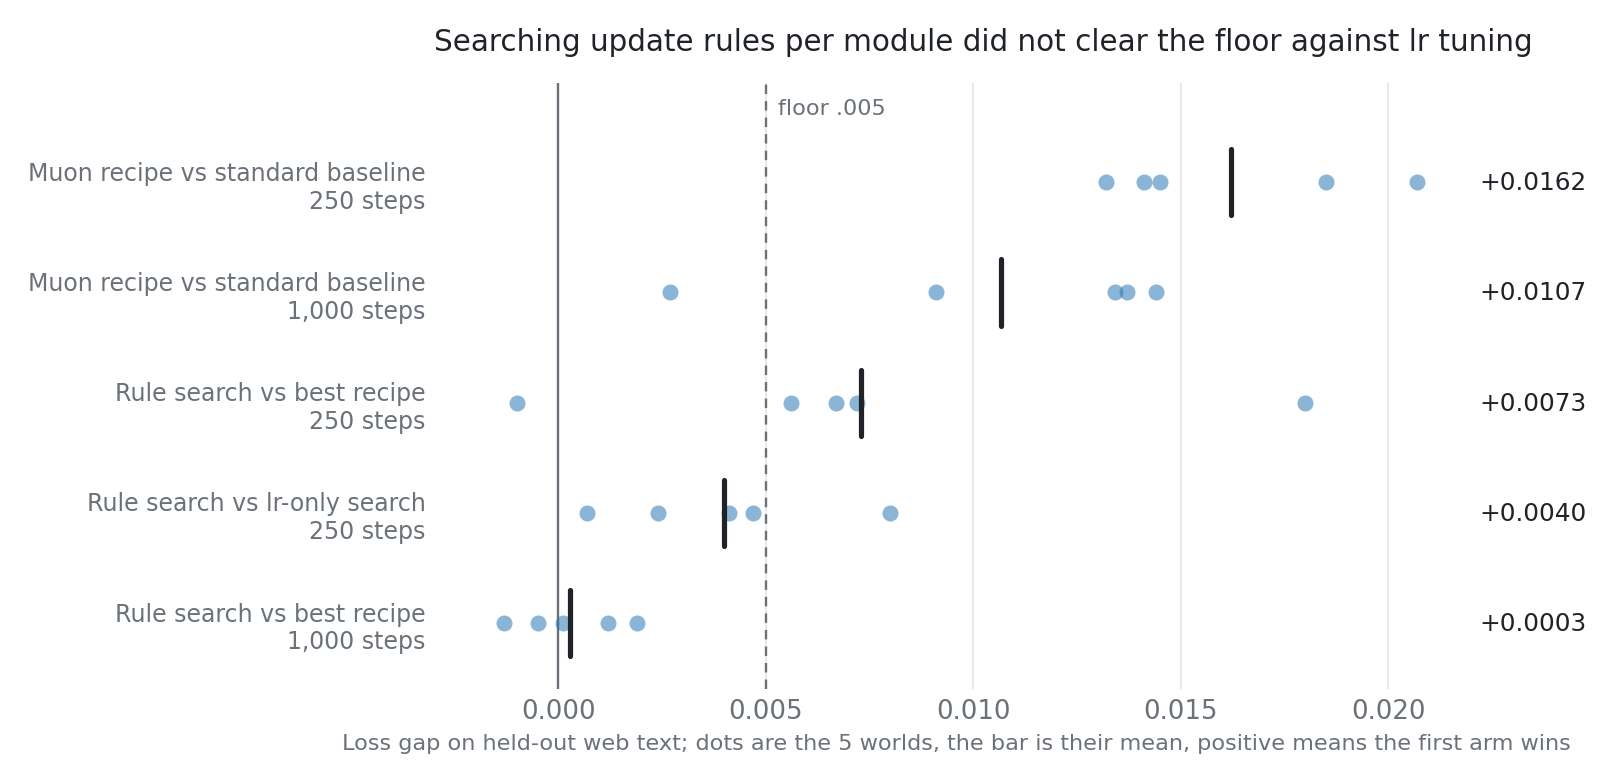
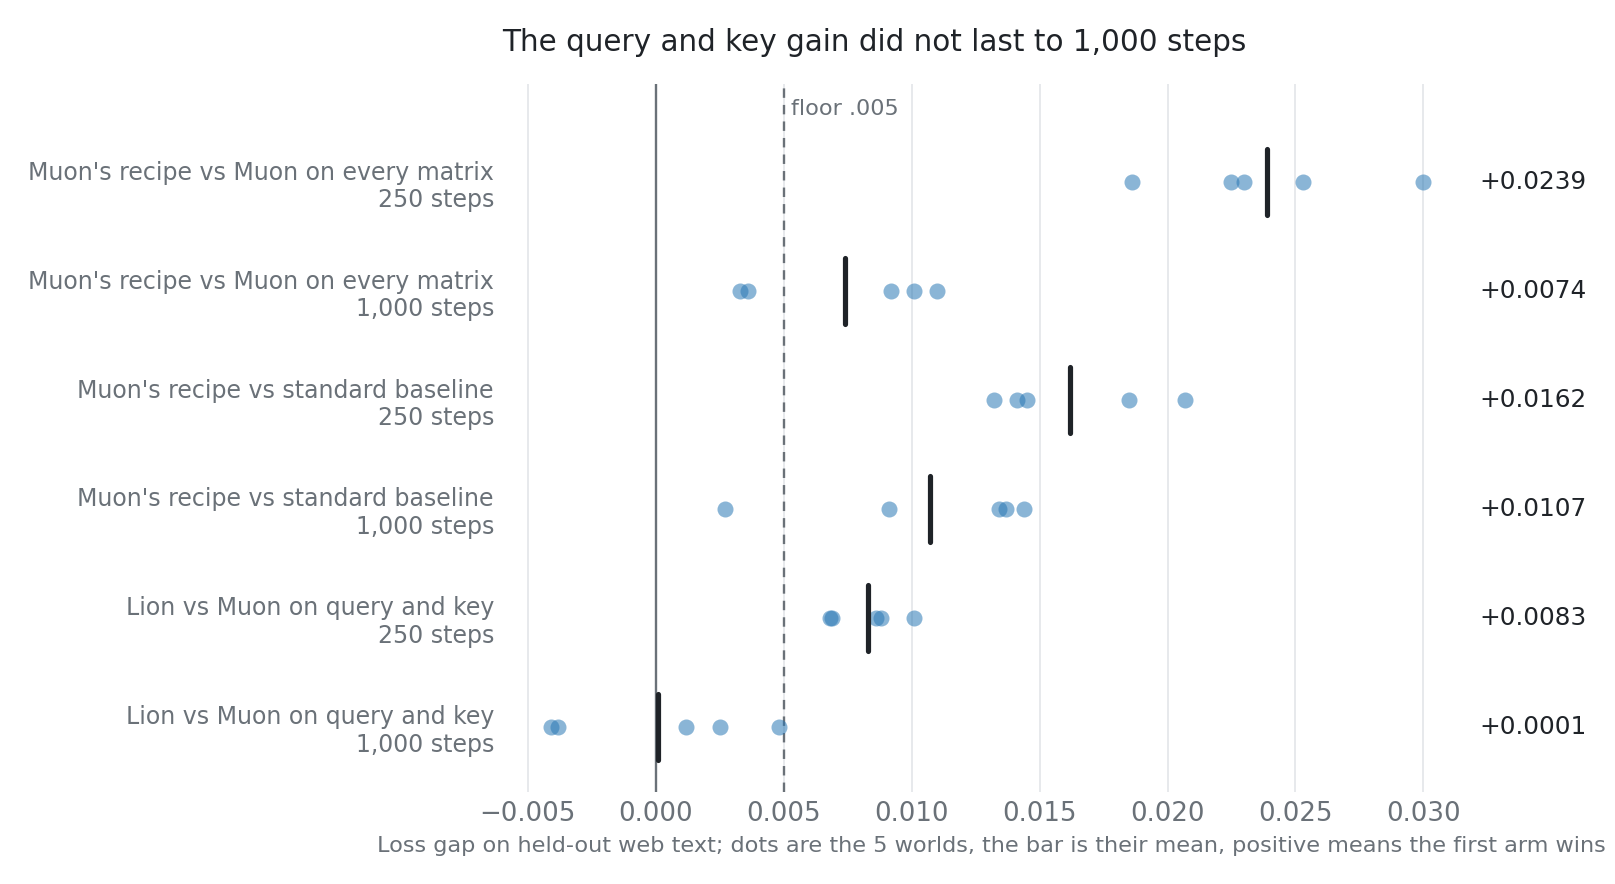
Report rounds 4 to 8: Adam on embedding and head plus Muon on hidden matrices is enough; the q,k gain fades by 1,000 steps

diff --git a/chart.py b/chart.py
@@ -1,25 +1,26 @@
-"""Draws gaps.png from the per-world numbers in RESULTS.md."""
+"""Draws gaps.png from the per-world numbers and means in RESULTS.md."""
 import matplotlib; matplotlib.use("Agg")
 import matplotlib.pyplot as plt
 
-ROWS = [("Muon recipe vs standard baseline\n250 steps", [.0141, .0132, .0145, .0185, .0207]),
-        ("Muon recipe vs standard baseline\n1,000 steps", [.0144, .0134, .0137, .0091, .0027]),
-        ("Rule search vs best recipe\n250 steps", [.0180, .0072, .0067, .0056, -.0010]),
-        ("Rule search vs lr-only search\n250 steps", [.0080, .0047, .0024, .0041, .0007]),
-        ("Rule search vs best recipe\n1,000 steps", [-.0005, .0012, .0001, .0019, -.0013])]
+ROWS = [("Muon's recipe vs Muon on every matrix\n250 steps", [.0186, .0230, .0253, .0225, .0300], .0239),
+        ("Muon's recipe vs Muon on every matrix\n1,000 steps", [.0092, .0110, .0036, .0033, .0101], .0074),
+        ("Muon's recipe vs standard baseline\n250 steps", [.0141, .0132, .0145, .0185, .0207], .0162),
+        ("Muon's recipe vs standard baseline\n1,000 steps", [.0144, .0134, .0137, .0091, .0027], .0107),
+        ("Lion vs Muon on query and key\n250 steps", [.0101, .0088, .0068, .0069, .0086], .0083),
+        ("Lion vs Muon on query and key\n1,000 steps", [-.0038, -.0041, .0012, .0025, .0048], .0001)]
 INK, MUTED, DOT = "#1f2328", "#6a7178", "#2a78b5"
 plt.rcParams.update({"font.size": 11, "font.family": "DejaVu Sans"})
-fig, ax = plt.subplots(figsize=(9.5, 4.6), dpi=170)
-for i, (name, v) in enumerate(ROWS):
-    y = len(ROWS) - 1 - i; m = sum(v) / len(v)
+fig, ax = plt.subplots(figsize=(9.5, 5.2), dpi=170)
+for i, (name, v, m) in enumerate(ROWS):
+    y = len(ROWS) - 1 - i
     ax.scatter(v, [y] * len(v), s=46, color=DOT, alpha=.55, linewidths=0, zorder=3)
     ax.plot([m, m], [y - .3, y + .3], color=INK, lw=2.2, solid_capstyle="round", zorder=4)
-    ax.text(.0222, y, f"{m:+.4f}", va="center", ha="left", color=INK, fontsize=10.5)
+    ax.text(.0322, y, f"{m:+.4f}", va="center", ha="left", color=INK, fontsize=10.5)
 ax.axvline(0, color=MUTED, lw=1); ax.axvline(.005, color=MUTED, lw=1, ls=(0, (4, 3)))
 ax.text(.0053, len(ROWS) - .42, "floor .005", ha="left", va="bottom", color=MUTED, fontsize=9.5)
-ax.set_yticks(range(len(ROWS))); ax.set_yticklabels([r[0] for r in ROWS][::-1], color=INK, fontsize=10); ax.set_xlim(-.003, .0222); ax.set_ylim(-.6, len(ROWS) - .1)
+ax.set_yticks(range(len(ROWS))); ax.set_yticklabels([r[0] for r in ROWS][::-1], color=INK, fontsize=10); ax.set_xlim(-.006, .0322); ax.set_ylim(-.6, len(ROWS) - .1)
 ax.set_xlabel("Loss gap on held-out web text; dots are the 5 worlds, the bar is their mean, positive means the first arm wins", color=MUTED, fontsize=9.5)
 ax.tick_params(length=0, colors=MUTED); ax.grid(axis="x", color="#e6e8eb", lw=.8); ax.set_axisbelow(True)
 for s in ax.spines.values(): s.set_visible(False)
-ax.set_title("Searching update rules per module did not clear the floor against lr tuning", loc="left", color=INK, fontsize=12.5, pad=14)
+ax.set_title("The query and key gain did not last to 1,000 steps", loc="left", color=INK, fontsize=12.5, pad=14)
 fig.tight_layout(); fig.savefig("gaps.png"); print("gaps.png")

diff --git a/README.md b/README.md
@@ -3,13 +3,14 @@
 > [!IMPORTANT]
 > We are using this environment to write a paper for ICML 2027. It was built in [AI Research School](https://www.skool.com/become-ai-researcher-2669), and you can use the code, results and ideas in your own research. The code is MIT licensed, and neither permission nor co-authorship is needed.
 >
-> **On a small LLM, searching for a different update rule per module added less than our .005 noise floor once every optimizer had its own tuned learning rate per module. Muon's recipe beat the standard baseline at both lengths we tested.**
+> **On a small LLM, two rules were enough: Adam on the embedding, head and norm scales, and Muon on hidden matrices. One rule on every matrix lost at both lengths we tested. A third rule on attention's query and key matrices helped at 250 steps, and that gain was gone at 1,000 steps.**
 
 | Paired gap in loss on held-out web text, over 5 worlds; positive means the first arm wins | 250 steps | 1,000 steps |
 |---|---|---|
+| **Muon's recipe vs Muon on every matrix** | **+.0239** (error .0020) | **+.0074** (error .0017) |
 | **Muon's recipe vs the standard baseline** | **+.0162** (error .0015) | **+.0107** (error .0022) |
+| Lion vs Muon on query and key | +.0083 (error .0012) | +.0001 (error .0018) |
 | Rule search vs the best published recipe | +.0073 (error .0031) | +.0003 (error .0008) |
-| Rule search vs a search over learning rates only | +.0040 (error .0012) | not run |
 
 ![Gap per world for each comparison](gaps.png)
 
@@ -31,7 +32,7 @@ So recent papers give each kind of weight, each **module**, its own rule. **Muon
 
 Each module can also have its own **learning rate (lr)**, the size of the move. A new rule can look better only because it got a better lr.
 
-Our question: once every optimizer has one tuned lr per module, does searching for the best rule per module still help?
+Our question: once every optimizer has one tuned lr per module, does each module need its own rule, or is one rule enough?
 
 ---
 
@@ -39,15 +40,53 @@ Our question: once every optimizer has one tuned lr per module, does searching f
 
 **Loss** is cross-entropy on web text the model never trained on, and lower is better. A **world** is a separate stretch of text with its own held-out rows. We count a gap as real only if its mean over worlds exceeds .005 and 2 errors. Every comparison uses one training run per setting per world.
 
-### Try Muon's recipe before searching for rules
+### Use Adam on the embedding and head, and Muon on hidden matrices
 
 Muon's recipe uses Muon on hidden matrices and Adam on the embedding, head and norm scales. The standard baseline uses Adam everywhere. Muon's recipe won in all 5 worlds at both lengths, by .0162 at 250 steps and .0107 at 1,000 steps.
 
-> **Muon's recipe had the lowest loss of the published recipes at 250 steps, and its lead fell with length, to +.0027 in its weakest world at 1,000 steps.**
+We then swapped one module's rule at a time at 250 steps and measured the change in tune loss, with the lr of the new rule tuned on 3 to 5 values. Each module has a clear preference, except query and key.
+
+| Module | Lowest loss | Next rule adds | Muon adds |
+|---|---|---|---|
+| Embedding | Adam | RowNorm +.018 | +.043 |
+| Head | Adam | Muon +.0097 | +.0097 |
+| Query and key | Lion | Adam +.0005 | +.0036 |
+| Value and output | Muon | Hybrid +.0036 | best |
+| MLP gate and up | Muon | Lion +.0029 | best |
+| MLP down | Muon | Hybrid +.0027 | best |
+| Norm scales | Adam | NormSGD on vectors +.0102 | can't run on vectors |
+
+> **Apart from query and key, each module kept the rule Muon's recipe already gives it. These swaps start from that recipe with lrs tuned on 155 settings, which favours it.**
+
+### Do not use one rule on every matrix
+
+Muon on every matrix lost to Muon's recipe by .0239 at 250 steps and .0074 at 1,000 steps. The only change between them is Adam on the embedding and head. At 250 steps, Muon's recipe with tuned lrs and Lion on query and key beat Muon on every matrix by .0345, and Lion, RowNorm and NormSGD on every matrix by .0536, .0609 and .1061. Norm scales stayed on Adam in all of these arms, because these rules need matrices.
+
+> **The gap shrinks with length, so this answer may change on longer runs.**
+
+### Move query and key away from Muon only in very short runs
+
+At 250 steps, four other rules on query and key each beat Muon, by .0056 to .0083, and they tie with each other. So the rule here is that query and key do not want Muon, and not that they want Lion. The gain also held on worlds 21 to 23, which no earlier run read: +.0090, error .0013.
+
+At 1,000 steps Lion and Adam tie Muon there, at +.0001 and +.0010, and Muon has the lower tune loss.
+
+Query and key also go through QK-norm. Without it, Lion's gain at 250 steps fell to +.0039, error .0015, but we did not test that drop with its own error, so QK-norm is not shown to be the cause.
+
+> **Muon's recipe needs no third rule at 1,000 steps. We have not run the 250-step gain on a larger model.**
+
+### One knob from Muon to a normalized gradient did not replace the two rules
+
+We wrote one new rule, `softmuon`. It raises the singular values of the update to a power p, so p 0 is orthogonalization and p 1 is a normalized gradient. Query and key preferred p .75, while value and output preferred p near 0, where p .75 added .0305.
+
+The best single p on all hidden matrices was .1. It lost to the design with Lion on query and key by .0114 on worlds 15 to 19 and by .0104 on worlds 21 to 23.
+
+> **Hidden matrices disagree at 250 steps, so one p did not cover them.**
 
 ### Compare a new rule against lr tuning, or you may credit the rule for the lr
 
 The rule search spent 218 settings at 250 steps and beat Muon's recipe by .0073. It put Lion on attention's query and key matrices and kept Muon or Adam elsewhere. A search over lrs alone spent 155 settings and tied Muon's recipe at +.0033. The search's remaining edge is .0040, positive in all 5 worlds and under our floor.
+
+A later retest changed only query and key, from the lr-only design. It cleared the floor at +.0067, error .0011, on those same worlds, so the search's own design carried extra changes that gave nothing back.
 
 > **At 250 steps about half of the rule search's gain came from lrs that needed no new rule.**
 
@@ -70,7 +109,7 @@ Keeping attention and MLP matrices on the Stiefel manifold lost to Muon's uncons
 ## Where it stops working
 
 - **Size.** The largest finished model has 2 layers and width 48, and hidden matrices hold only 37% of its weights. At 250 steps, training them is worth .103, 21 times the floor, so the test can see them matter. Our guess is that short runs favour rules with fast early progress.
-- **Unfinished checks.** Hidden rows were never read, speed was not measured for designs, and the audit of other scores did not run. All verdicts use web-text loss only.
+- **Unfinished checks.** Hidden rows were never read, speed was not measured for designs, and the audit of other scores did not run. All verdicts use web-text loss only. `softmuon` uses an exact SVD, so it costs more per step than Muon.
 - **Manifold rules** were tuned as baselines at 250 steps and were not in the search's menu.
 - **Few worlds.** Five worlds detect gaps near .005 only when the spread between worlds is small.
 

diff --git a/RESULTS.md b/RESULTS.md
@@ -82,6 +82,53 @@ lr-only, 250 steps       emb=adam:.3 head=adam:.048 norm=adam:.019 qk=muon:.017 
 rule search, 1,000 steps emb=rownorm:.75 head=rownorm:.062 norm=adam:.015 qk=muon:.032 vo=muon:.041 gu=hybrid:.008 down=hybrid:.02
 ```
 
+## Which rule does each module want? Worlds 15 to 23
+
+Round 4 to round 8 of [EXPERIMENTS.md](EXPERIMENTS.md), with predictions. Settings come from tune rows of world 0. Mix means the lr-only design with Lion on query and key.
+
+### One swap at a time, 250 steps, added tune loss against lr-only (4.3974)
+
+| Module | Adam | Muon | RowNorm | Hybrid | Lion | NormSGD |
+|---|---|---|---|---|---|---|
+| emb | 0 | +.043 | +.018 | +.029 | +.022 | |
+| head | 0 | +.0097 | | +.0172 | | +.0126 |
+| qk | -.0031 | 0 | -.0028 | | -.0036 | -.0024 |
+| vo | +.0346 | 0 | | +.0036 | +.0301 | +.0344 |
+| gu | +.0043 | 0 | | +.0035 | +.0029 | |
+| down | | 0 | | +.0027 | +.0040 | |
+
+Norm scales: Adam 0, norm1d +.0102, heavy ball +.0122, Lion +.0198. Blank cells were outside the 4 closest rules for that module. Across 60 random mixes the sum of swaps predicted the mix's loss with correlation .881, and mixes did better than the sum by .0137 on average.
+
+### Fresh worlds
+
+| Comparison | Length | Worlds | Mean gap | Error | Verdict | Per world |
+|---|---|---|---|---|---|---|
+| Muon's recipe vs Muon on every matrix | 250 | 15-19 | +.0239 | .0020 | holds | +.0186 +.0230 +.0253 +.0225 +.0300 |
+| Muon's recipe vs Muon on every matrix | 1,000 | 15-19 | +.0074 | .0017 | holds | +.0092 +.0110 +.0036 +.0033 +.0101 |
+| Mix vs lr-only | 250 | 15-19 | +.0083 | .0012 | holds | +.0101 +.0088 +.0068 +.0069 +.0086 |
+| Mix vs lr-only | 250 | 10-14 | +.0067 | .0011 | holds | +.0082 +.0052 +.0089 +.0045 +.0066 |
+| Mix vs lr-only | 250 | 21-23 | +.0090 | .0013 | holds | +.0115 +.0083 +.0071 |
+| Mix vs Muon's recipe | 250 | 15-19 | +.0106 | .0016 | holds | +.0118 +.0122 +.0110 +.0137 +.0043 |
+| Mix vs Muon on every matrix | 250 | 15-19 | +.0345 | .0021 | holds | +.0304 +.0352 +.0364 +.0362 +.0342 |
+| Mix vs Lion on every matrix | 250 | 15-19 | +.0536 | .0023 | holds | +.0570 +.0593 +.0537 +.0522 +.0459 |
+| Mix vs RowNorm on every matrix | 250 | 15-19 | +.0609 | .0025 | holds | +.0619 +.0676 +.0639 +.0579 +.0531 |
+| Mix vs NormSGD on every matrix | 250 | 15-19 | +.1061 | .0031 | holds | +.1120 +.1109 +.0946 +.1063 +.1066 |
+| Mix vs the standard baseline | 250 | 15-19 | +.0271 | .0021 | holds | +.0295 +.0318 +.0229 +.0303 +.0213 |
+| Adam vs Muon on q,k | 250 | 15-19 | +.0077 | .0013 | holds | +.0079 +.0068 +.0057 +.0068 +.0111 |
+| RowNorm vs Muon on q,k | 250 | 15-19 | +.0063 | .0013 | holds | +.0073 +.0085 +.0049 +.0024 +.0086 |
+| NormSGD vs Muon on q,k | 250 | 15-19 | +.0056 | .0012 | holds | +.0063 +.0054 +.0018 +.0051 +.0094 |
+| Lion vs Adam on q,k | 250 | 15-19 | +.0006 | .0012 | tie | +.0022 +.0020 +.0011 +.0001 -.0025 |
+| Lion vs Muon on q,k, no QK-norm | 250 | 15-19 | +.0039 | .0015 | tie | +.0087 +.0038 +.0045 -.0010 +.0033 |
+| Lion vs Muon on q,k | 1,000 | 15-19 | +.0001 | .0018 | tie | -.0038 -.0041 +.0012 +.0025 +.0048 |
+| Adam vs Muon on q,k | 1,000 | 15-19 | +.0010 | .0018 | tie | -.0047 -.0007 +.0014 +.0037 +.0053 |
+| Mix vs p .1 on all hidden | 250 | 15-19 | +.0114 | .0019 | holds | +.0142 +.0130 +.0098 +.0153 +.0047 |
+| Mix vs p .1 on all hidden | 250 | 21-23 | +.0104 | .0013 | holds | +.0101 +.0099 +.0114 |
+| p .75 on q,k vs lr-only | 250 | 15-19 | +.0056 | .0011 | holds | +.0067 +.0046 +.0036 +.0047 +.0084 |
+
+Added tune loss for `softmuon`, each at its best of 5 lrs: q,k +.0001, +.0008, -.0019, -.0029 at p .1, .25, .5, .75; value and output +.0081, +.0131, +.0253, +.0305; gate and up +.0018, +.0022, +.0031, +.0060; down +.0005, +.0016, +.0024, +.0032. With p 0 on q,k, the exact SVD added +.0026 against Muon's 5 Newton-Schulz steps.
+
+The 1,000-step q,k comparisons start from Muon's recipe tuned at that length, because no lr-only design exists there. Designs tried in these rounds: 1 mix, 4 q,k rules and 1 single-p design. The verdict rule does not correct for that count.
+
 ## Controls: can the test tell?
 
 | Control at 250 steps | Mean gap | Error | Reading |
@@ -123,6 +170,17 @@ python3 chart.py                                         # draws gaps.png
 ```
 
 `results.jsonl` holds every row, `choices.jsonl` every setting chosen, and `runs/` the per-item scores that paired errors come from. Results made before the test's last fixes are in `old/` and are not comparable.
+
+## Commands for the module rounds
+
+```bash
+python3 mix.py --tier 5s
+python3 qkrule.py --tier 5s
+python3 softrule.py --tier 5s
+python3 qklong.py --tier 5sx4
+python3 search.py tune muon-all --tier 5sx4 --from-tier 5s
+python3 embhead.py --tier 5sx4
+```
 
 ## Literature
 

diff --git a/EXPERIMENTS.md b/EXPERIMENTS.md
@@ -112,7 +112,7 @@ The 1m tuning was stopped before any result, because the fast experiments had al
 
 ## Round 4: mixing rules at 5s, prediction before running
 
-Vuk asked for a direct test: mix the rules module by module in fast runs, and either find rules for choosing them or show that one optimizer is enough. `mix.py` starts from the lr-only design (the hardest control so far), swaps one module to each rule, then runs random mixes, and checks the best mix on fresh worlds 15 to 19 against that base, Muon's recipe, Muon on every matrix (`muon-all`), the standard baseline and `sym`.
+The next question was a direct test: mix the rules module by module in fast runs, and either find rules for choosing them or show that one optimizer is enough. `mix.py` starts from the lr-only design (the hardest control so far), swaps one module to each rule, then runs random mixes, and checks the best mix on fresh worlds 15 to 19 against that base, Muon's recipe, Muon on every matrix (`muon-all`), the standard baseline and `sym`.
 
 Predictions:
 
@@ -225,4 +225,4 @@ Prediction, written before any run: on worlds 15 to 19 at 1,000 steps, the Muon 
 
 Muon recipe vs Muon on every matrix, 1,000 steps, worlds 15 to 19: +.0074, error .0017, holds; per world +.0092 +.0110 +.0036 +.0033 +.0101. Tune gap .0054.
 
-The prediction failed low: +.0074 is under the predicted +.010, while it still clears the .005 floor. Adam on embedding and head keeps a smaller gain at 1,000 steps. At 250 steps the same gap is about +.024, by subtracting two comparisons and not from a direct run.
+The prediction failed low: +.0074 is under the predicted +.010, while it still clears the .005 floor. Adam on embedding and head keeps a smaller gain at 1,000 steps. At 250 steps the same gap is +.0239, error .0020, on the same worlds, read directly from saved rows after this round.
